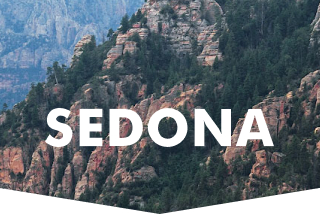
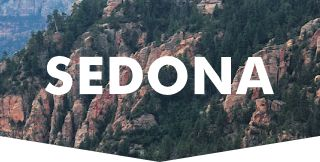
Правки

diff --git a/source/form.html b/source/form.html
@@ -4,6 +4,7 @@
 <head>
   <meta charset="utf-8">
   <title>HTML Academy: SEDONA</title>
+  <meta name="viewport" content="width=device-width,initial-scale=1">
   <link rel="icon" href="favicon.ico">
   <link rel="icon" href="img/favicon/32.svg" type="image/svg+xml">
   <link rel="apple-touch-icon" href="img/favicon/180.png">
@@ -13,8 +14,10 @@
 
 <body class="page__body">
   <header class="page-header">
-    <a class="page-header__logo">
-      <img src="img/logo-small.svg" width="102" height="84" alt="Логотип сайта SEDONA">
+    <a class="page-header__logo" href="index.html">
+      <div class="page-header__wrapper">
+        <img src="img/logo-small.svg" width="102" height="84" alt="Логотип сайта SEDONA">
+      </div>
     </a>
     <nav class="page-header__nav main-nav">
       <button class="main-nav__toggle" type="button">
@@ -22,56 +25,59 @@
       </button>
       <ul class="main-nav__list visually-hidden">
         <li class="main-nav__item">
-          <a href="index.html">Главная</a>
+          <a class="main-nav__link" href="index.html">Главная</a>
         </li>
         <li class="main-nav__item">
-          <a href="catalog.html">Фото и видео</a>
+          <a class="main-nav__link" href="catalog.html">Фото и видео</a>
         </li>
         <li class="main-nav__item main-nav__item--current">
-          <a>Форма отзыва</a>
+          <a class="main-nav__link">Форма отзыва</a>
         </li>
         <li class="main-nav__item">
-          <a href="https://htmlacademy.ru/intensive/adaptive">HTML Acamedy</a>
+          <a class="main-nav__link" href="https://htmlacademy.ru/intensive/adaptive">HTML Acamedy</a>
         </li>
+        <button class="main-nav__close" type="button">
+          <span class="visually-hidden">Закрыть меню</span>
+        </button>
       </ul>
     </nav>
     <section class="page-header__intro">
       <h2 class="visually-hidden">Добро пожаловать в Седону</h2>
-      <img class="page-header__intro-logo" src="img/intro-small.jpg" width="320" height="214" alt="Логотип курортного городка сайта SEDONA">
+      <img class="page-header__intro-logo" src="img/intro-small.jpg" width="320" height="162" alt="Логотип курортного городка сайта SEDONA">
     </section>
   </header>
   <main class="page-main">
     <h1 class="visually-hidden">Сайт курортного городка "SEDONA"</h1>
     <section class="feedback">
       <header class="feedback__header">
-        <h2 class="feedback__slogan">Оставьте свой отзыв</h2>
+        <h2 class="feedback__title">Оставьте свой отзыв</h2>
         <p class="feedback__intro">Помогите нашим отелям стать лучше! Оставьте отзыв о них, а также о посещенных вами достопримечательностях</p>
       </header>
       <form class="feedback__form feedback-form" action="https://echo.htmlacademy.ru" method="GET">
         <fieldset class="feedback__fieldset feedback__fieldset--name">
           <legend class="feedback-form__title">Представьтесь:</legend>
-          <label class="feedback-form__label">
+          <label class="feedback-form__label feedback-form__label--name">
             Имя*:
-            <input class="feedback-form__field" type="text" name="name" placeholder="Петр">
+            <input class="feedback-form__field feedback-form__field--name" type="text" name="name" placeholder="Петр">
           </label>
-          <label class="feedback-form__label">
+          <label class="feedback-form__label feedback-form__label--name">
             Фамилия*:
-            <input class="feedback-form__field" type="text" name="family-name" placeholder="Иванов">
+            <input class="feedback-form__field feedback-form__field--name" type="text" name="family-name" placeholder="Иванов">
           </label>
-          <label class="feedback-form__label">
+          <label class="feedback-form__label feedback-form__label--name">
             Отчество:
-            <input class="feedback-form__field" type="text" name="surname" placeholder="Александрович">
+            <input class="feedback-form__field feedback-form__field--name" type="text" name="surname" placeholder="Александрович">
           </label>
         </fieldset>
         <fieldset class="feedback__fieldset feedback__fieldset--contacts">
           <legend class="feedback-form__title">Контактная информация:</legend>
-          <label class="feedback-form__label">
-            Телефон:
-            <input class="feedback-form__field" type="tel" name="phone" placeholder="Введите телефон">
+          <label class="feedback-form__label feedback-form__label--contact">
+            Контактный телефон:
+            <input class="feedback-form__field feedback-form__field--contact" type="tel" name="phone" placeholder="Введите телефон">
           </label>
-          <label class="feedback-form__label">
+          <label class="feedback-form__label feedback-form__label--contact">
             Электронная почта:
-            <input class="feedback-form__field" type="email" name="email" placeholder="Введите email">
+            <input class="feedback-form__field feedback-form__field--contact" type="email" name="email" placeholder="Введите email">
           </label>
         </fieldset>
         <fieldset class="feedback__fieldset feedback__fieldset--impression">
@@ -162,6 +168,7 @@
       <button class="modal__button modal__button--close" type="button">Закрыть окно</button>
     </div>
   </section>
+  <script src="js/script.js"></script>
 </body>
 
 </html>

diff --git a/source/catalog.html b/source/catalog.html
@@ -4,6 +4,7 @@
 <head>
   <meta charset="utf-8">
   <title>HTML Academy: SEDONA</title>
+  <meta name="viewport" content="width=device-width,initial-scale=1">
   <link rel="icon" href="favicon.ico">
   <link rel="icon" href="img/favicon/32.svg" type="image/svg+xml">
   <link rel="apple-touch-icon" href="img/favicon/180.png">
@@ -13,8 +14,10 @@
 
 <body class="page__body">
   <header class="page-header">
-    <a class="page-header__logo">
-      <img src="img/logo-small.svg" width="102" height="84" alt="Логотип сайта SEDONA">
+    <a class="page-header__logo" href="index.html">
+      <div class="page-header__wrapper">
+        <img src="img/logo-small.svg" width="102" height="84" alt="Логотип сайта SEDONA">
+      </div>
     </a>
     <nav class="page-header__nav main-nav">
       <button class="main-nav__toggle" type="button">
@@ -22,22 +25,25 @@
       </button>
       <ul class="main-nav__list visually-hidden">
         <li class="main-nav__item">
-          <a href="index.html">Главная</a>
+          <a class="main-nav__link" href="index.html">Главная</a>
         </li>
         <li class="main-nav__item main-nav__item--current">
-          <a>Фото и видео</a>
+          <a class="main-nav__link">Фото и видео</a>
         </li>
         <li class="main-nav__item">
-          <a href="form.html">Форма отзыва</a>
+          <a class="main-nav__link" href="form.html">Форма отзыва</a>
         </li>
         <li class="main-nav__item">
-          <a href="https://htmlacademy.ru/intensive/adaptive">HTML Acamedy</a>
+          <a class="main-nav__link" href="https://htmlacademy.ru/intensive/adaptive">HTML Acamedy</a>
         </li>
+        <button class="main-nav__close" type="button">
+          <span class="visually-hidden">Закрыть меню</span>
+        </button>
       </ul>
     </nav>
     <section class="page-header__intro">
       <h2 class="visually-hidden">Добро пожаловать в Седону</h2>
-      <img class="page-header__intro-logo" src="img/intro-small.jpg" width="320" height="214" alt="Логотип курортного городка сайта SEDONA">
+      <img class="page-header__intro-logo" src="img/intro-small.jpg" width="320" height="162" alt="Логотип курортного городка сайта SEDONA">
     </section>
   </header>
   <main class="page-main">
@@ -87,7 +93,7 @@
       <h2 class="video__title">Все еще сомневаетесь?</h2>
       <p class="video__intro">Смотрите видеопрезентацию и скорее за билетами, пока они не подорожали в очередной раз!</p>
       <div>
-        <img class="video__video" src="img/video-presentation.jpg" width="800" height="500" alt="Кадр видеопрезентации с изображением горного моста">
+        <img class="video__video" src="img/video-presentation.jpg" width="320" height="201" alt="Кадр видеопрезентации с изображением горного моста">
       </div>
       <div class="video__controls"></div>
     </section>
@@ -119,6 +125,7 @@
       </a>
     </div>
   </footer>
+  <script src="js/script.js"></script>
 </body>
 
 </html>

diff --git a/source/index.html b/source/index.html
@@ -4,6 +4,7 @@
 <head>
   <meta charset="utf-8">
   <title>HTML Academy: SEDONA</title>
+  <meta name="viewport" content="width=device-width,initial-scale=1">
   <link rel="icon" href="favicon.ico">
   <link rel="icon" href="img/favicon/32.svg" type="image/svg+xml">
   <link rel="apple-touch-icon" href="img/favicon/180.png">
@@ -14,7 +15,9 @@
 <body class="page__body">
   <header class="page-header">
     <a class="page-header__logo">
-      <img src="img/logo-small.svg" width="102" height="84" alt="Логотип сайта SEDONA">
+      <div class="page-header__wrapper">
+        <img src="img/logo-small.svg" width="102" height="84" alt="Логотип сайта SEDONA">
+      </div>
     </a>
     <nav class="page-header__nav main-nav">
       <button class="main-nav__toggle" type="button">
@@ -33,6 +36,9 @@
         <li class="main-nav__item">
           <a class="main-nav__link" href="https://htmlacademy.ru/intensive/adaptive">HTML Acamedy</a>
         </li>
+        <button class="main-nav__close" type="button">
+          <span class="visually-hidden">Закрыть меню</span>
+        </button>
       </ul>
     </nav>
     <section class="page-header__intro page-header__intro--index">
@@ -129,5 +135,6 @@
       </a>
     </div>
   </footer>
+  <script src="js/script.js"></script>
 </body>
 </html>

diff --git a/source/js/script.js b/source/js/script.js
@@ -1,0 +1,30 @@
+let mainNav = document.querySelector('.main-nav__list');
+let mainNavToggle = document.querySelector('.main-nav__toggle');
+let mainNavClose = document.querySelector('.main-nav__close');
+
+//MAIN-NAV
+
+if (mainNav && mainNavToggle && mainNavClose) {
+
+  mainNavToggle.addEventListener('click', function (event) {
+    event.preventDefault();
+    mainNav.classList.remove('visually-hidden');
+    mainNav.classList.add('modal-appear');
+  });
+
+  mainNavClose.addEventListener('click', function () {
+    mainNav.classList.add('visually-hidden');
+    mainNav.classList.remove('modal-appear');
+  });
+
+  window.addEventListener("keydown", function (evt) {
+    if (evt.key === 'Esc' || evt.key === 'Escape') {
+      if (!mainNav.classList.contains("visually-hidden")) {
+        evt.preventDefault();
+        mainNav.classList.add("visually-hidden");
+        mainNav.classList.remove('modal-appear');
+      }
+    }
+  });
+}
+

diff --git a/source/sass/blocks/main-nav.scss b/source/sass/blocks/main-nav.scss
@@ -22,6 +22,26 @@
   background-position: 0 0;
 }
 
+.main-nav__close {
+  position: absolute;
+  border: none;
+  background: none;
+  top: 17px;
+  right: 17px;
+}
+
+.main-nav__close::before {
+  content: "";
+  position: absolute;
+  width: 22px;
+  height: 22px;
+  top: 0;
+  right: 0;
+  background-image: url("../img/icon-cross.svg");
+  background-repeat: no-repeat;
+  background-position: 0 0;
+}
+
 .main-nav__list {
   list-style: none;
   padding: 0;
@@ -43,22 +63,6 @@
   box-shadow:
     inset 0 -1px 0 0 var(--dark-shadow),
     inset 0 1px 0 0 var(--light-shadow);
-}
-
-.main-nav__item--index {
-  position: relative;
-}
-
-.main-nav__item--index::after {
-  content: "";
-  position: absolute;
-  width: 22px;
-  height: 22px;
-  top: 15px;
-  right: 20px;
-  background-image: url("../img/icon-cross.svg");
-  background-repeat: no-repeat;
-  background-position: 0 0;
 }
 
 .main-nav__link {

diff --git a/source/sass/blocks/feedback-form.scss b/source/sass/blocks/feedback-form.scss
@@ -17,7 +17,13 @@
 .feedback-form__label {
   font-size: 14px;
   line-height: 26px;
-  margin-right: 20px;
+}
+
+.feedback-form__label--name {
+  display: flex;
+  justify-content: flex-start;
+  align-items: baseline;
+  width: 100%;
 }
 
 .feedback-form__label--radio,
@@ -27,6 +33,12 @@
   font-weight: bold;
   text-transform: none;
 }
+
+.feedback-form__field--contact {
+  margin-top: 15px;
+  width: 90%;
+}
+
 
 .feedback-form__feedback-message {
   display: flex;
@@ -46,4 +58,12 @@
 
 .feedback-form__button {
   text-align: center;
+}
+
+.feedback-form__field::placeholder {
+  font-family: "PT Sans", "Arial", sans-serif;
+  font-weight: bold;
+  font-size: 18px;
+  line-height: 26px;
+  color: var(--black);
 }

diff --git a/source/sass/blocks/feedback.scss b/source/sass/blocks/feedback.scss
@@ -1,3 +1,9 @@
+.feedback {
+  padding-left: 20px;
+  padding-right: 20px;
+}
+
+
 .feedback__header {
   padding: 0 15px;
   padding-bottom: 15px;
@@ -39,10 +45,10 @@
   background-position: 0 0;
 }
 
-.feedback-form__field::placeholder {
-  font-family: "PT Sans", "Arial", sans-serif;
-  font-weight: bold;
-  font-size: 18px;
-  line-height: 26px;
-  color: var(--black);
+.feedback__fieldset--name {
+  padding: 0;
+}
+
+.feedback__fieldset--contacts {
+  padding: 0;
 }

diff --git a/source/sass/blocks/page-header.scss b/source/sass/blocks/page-header.scss
@@ -2,13 +2,11 @@
   position: relative;
 }
 
-.page-header__logo {
-  position: absolute;
-  top: 0;
-  left: 109px;
-  z-index: 1;
-}
-
 .page-header__intro-logo {
   object-fit: cover;
+}
+
+.page-header__wrapper {
+  position: absolute;
+  width: 100%;
 }

diff --git a/source/sass/blocks/page.scss b/source/sass/blocks/page.scss
@@ -10,4 +10,5 @@
   background-color: var(--white);
   font-family: "PT Sans", "Arial", sans-serif;
   text-align: center;
+  box-shadow: 5px 5px 30px 0 var(--gray-shadow);
 }

diff --git a/source/sass/global.scss b/source/sass/global.scss
@@ -4,7 +4,7 @@
   --white: #ffffff;
   --background: #eeeeee;
   --dark-shadow: #658da5;
-  --grey-shadow: #acabab;
+  --gray-shadow: #acabab;
   --light-shadow: #91c6e7;
 }
 
